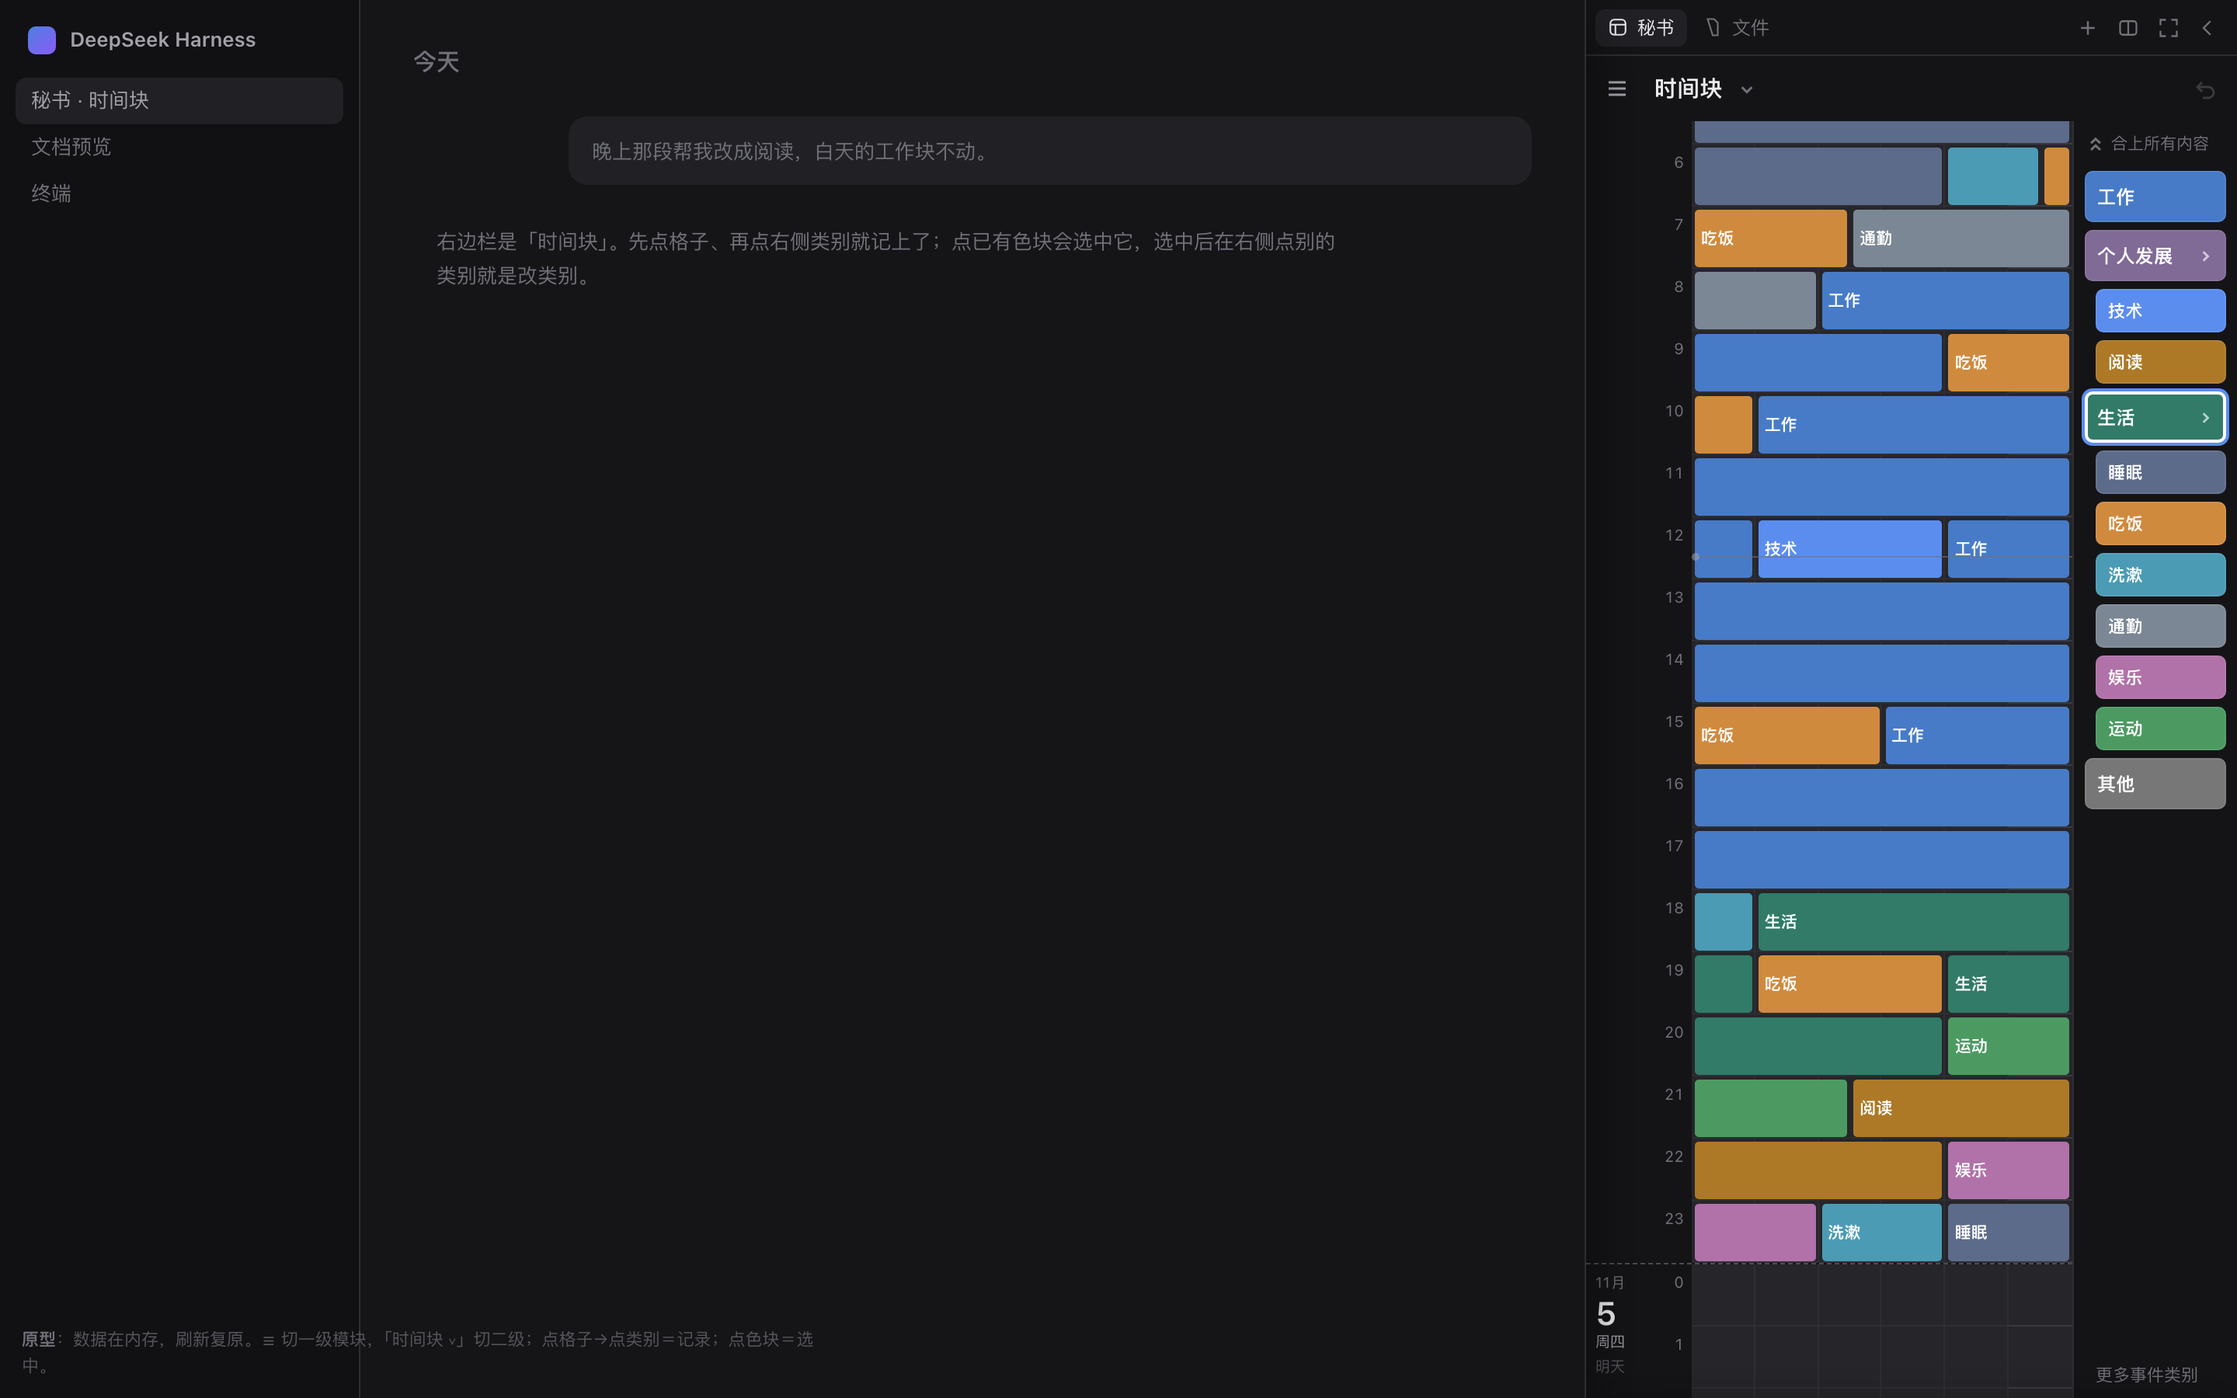
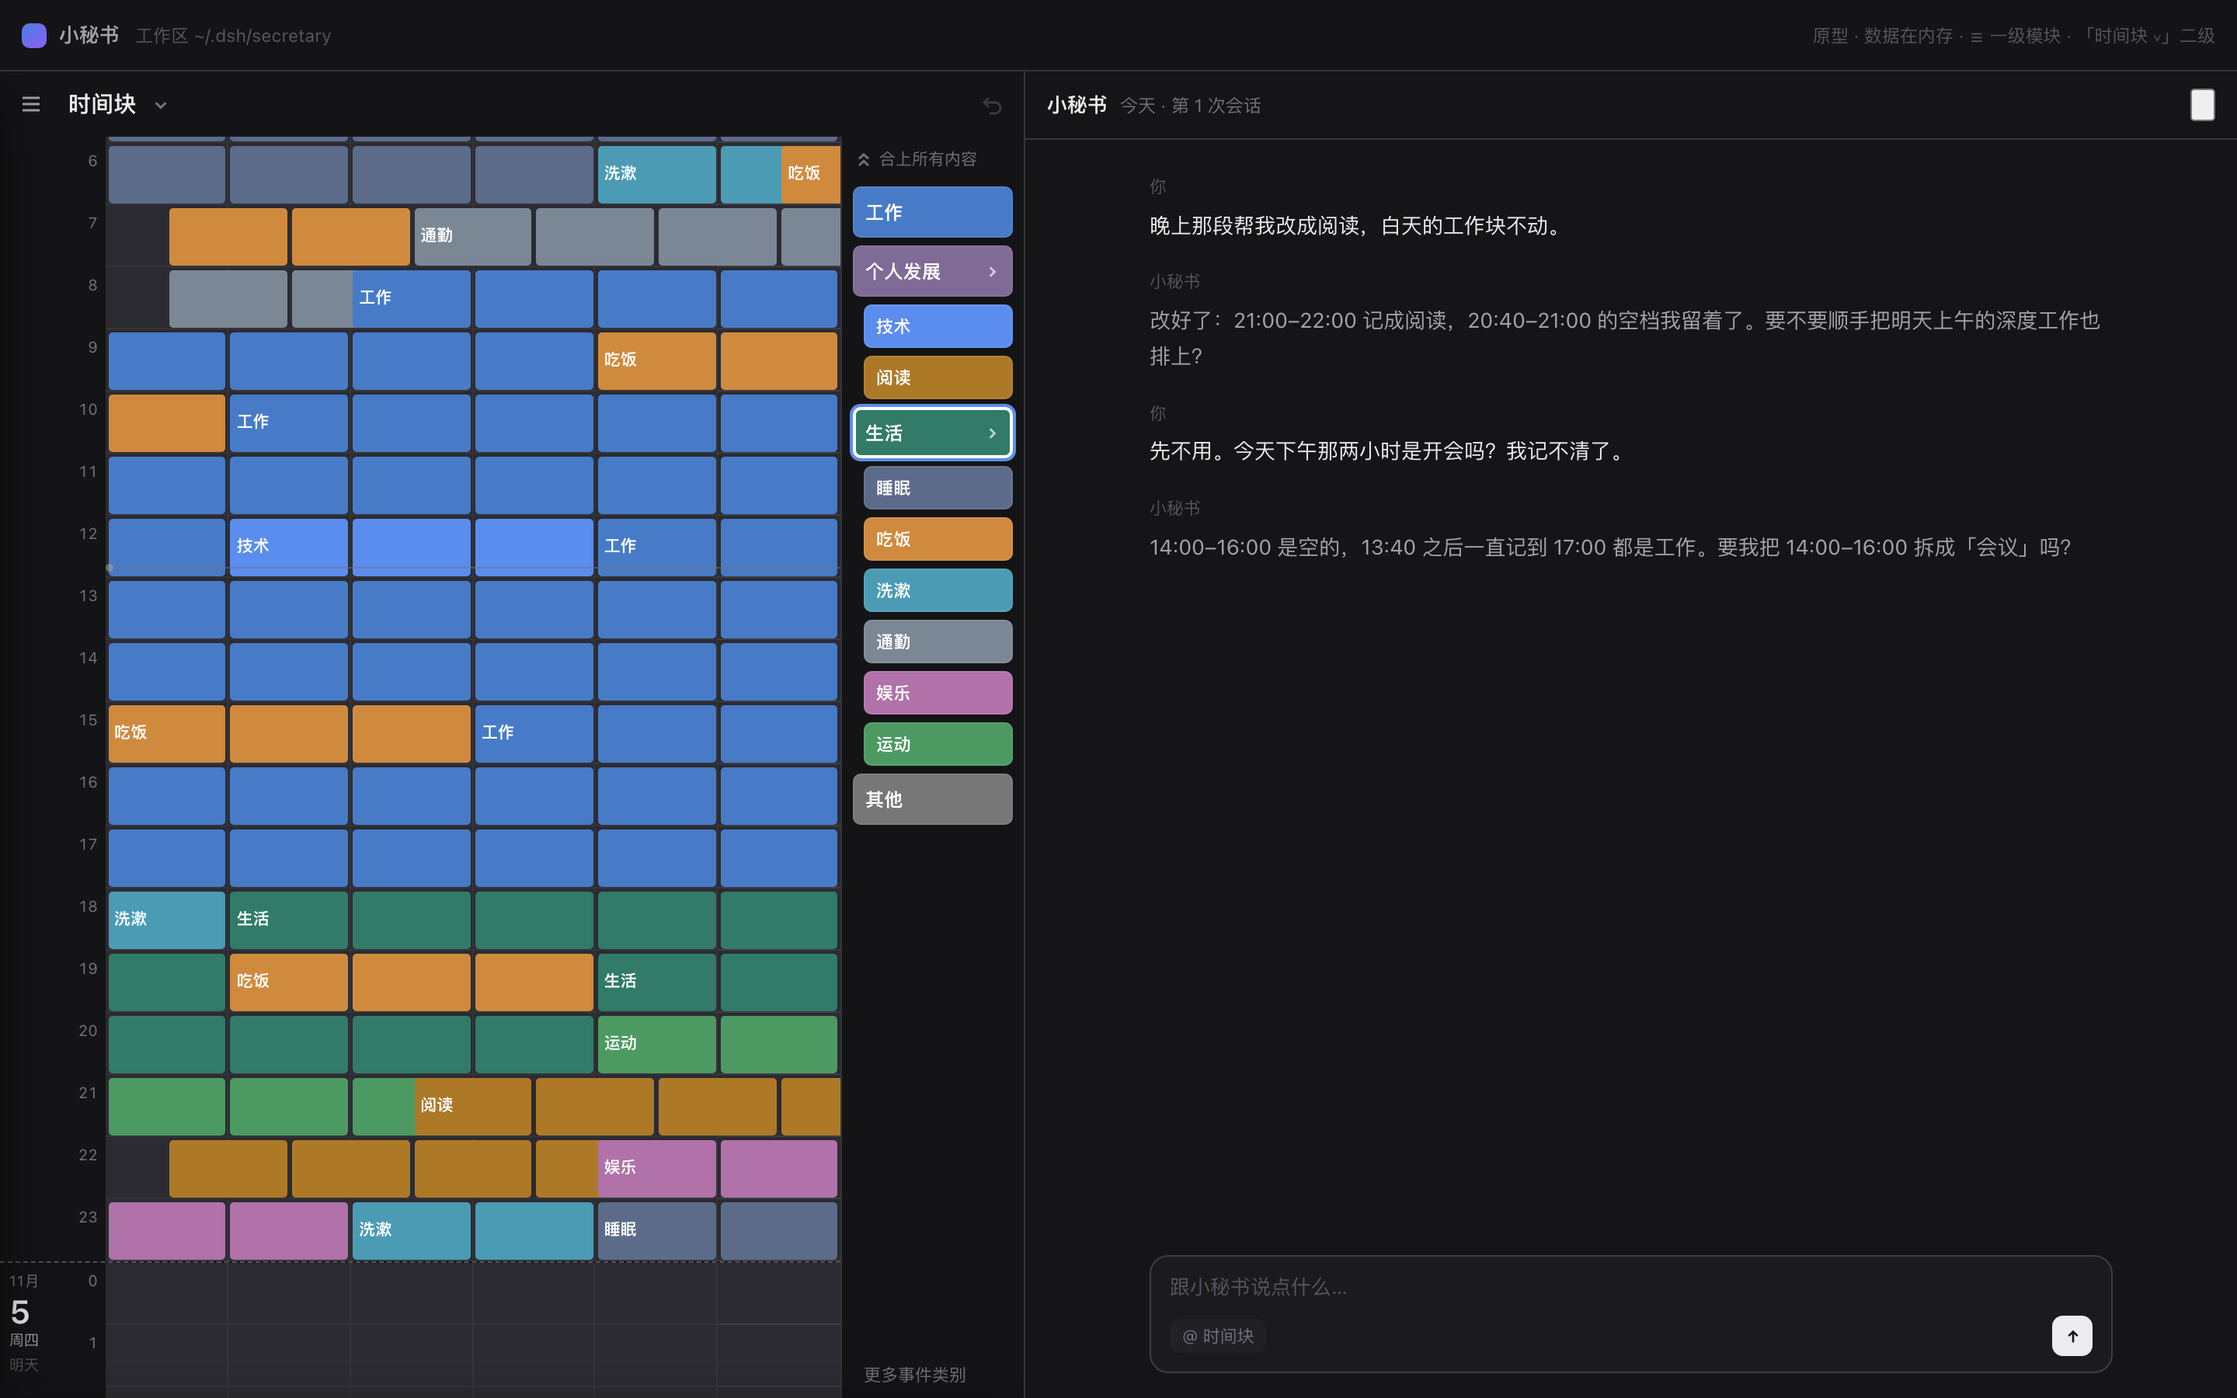
design: per-cell blocks, wider product pane, two-pane page (product left, chat right)

diff --git a/design/time-block-rail.html b/design/time-block-rail.html
@@ -24,10 +24,10 @@ body{font:14px/1.5 -apple-system,BlinkMacSystemFont,"SF Pro Text","PingFang SC",
 :root[data-theme="dark"]{
   --stage:#0a0a0b;--nav:#111113;--conv:#151517;
   --rail:#141416;--rail-2:#1b1b1e;--rail-3:#212125;
-  --cell:#26262a;--cell-2:#1e1e21;--line:#2e2e33;--line-2:#3a3a41;--dash:#4a4a52;
+  --cell:#2b2b31;--cell-2:#1f1f23;--line:#34343a;--line-2:#3d3d44;--dash:#4f4f57;
   --txt:#ececef;--txt-2:#a2a2aa;--txt-3:#71717a;--txt-4:#55555d;
   --accent:#5b8def;--accent-soft:#1d2b44;
-  --sel:rgba(255,255,255,.17);--sel-line:rgba(255,255,255,.6);
+  --sel:rgba(64,132,208,.92);--sel-line:rgba(255,255,255,.16);
   --danger:#e0554b;
   --shadow:0 14px 38px rgba(0,0,0,.6);--shadow-sm:0 6px 18px rgba(0,0,0,.45);
 }
@@ -43,7 +43,36 @@ body{font:14px/1.5 -apple-system,BlinkMacSystemFont,"SF Pro Text","PingFang SC",
 }
 
 /* ---------- fake DSH window (scenery only) ---------- */
-.stage{display:flex;height:100%}
+.stage{display:flex;height:100%;flex-direction:column;background:var(--rail)}
+.appbar{height:46px;flex:none;display:flex;align-items:center;gap:10px;padding:0 14px;border-bottom:1px solid var(--line);
+  background:var(--rail)}
+.appbar .brand{display:flex;align-items:center;gap:8px;font-size:13px;font-weight:600;color:var(--txt-2)}
+.appbar .brand i{width:16px;height:16px;border-radius:5px;background:linear-gradient(140deg,#4c7fe0,#8b5cf6)}
+.appbar .grow{flex:1}
+.appbar .whint{font-size:11.5px;color:var(--txt-4)}
+.body{flex:1;min-height:0;display:flex}
+.pane-product{width:var(--product-w,660px);flex:none;min-width:0;display:flex;flex-direction:column;
+  border-right:1px solid var(--line);position:relative;overflow:hidden}
+.pane-chat{flex:1;min-width:0;display:flex;flex-direction:column;background:var(--conv)}
+.chat-head{height:44px;flex:none;display:flex;align-items:center;gap:8px;padding:0 14px;border-bottom:1px solid var(--line)}
+.chat-head .t{font-size:13px;font-weight:600;color:var(--txt)}
+.chat-head .s{font-size:11.5px;color:var(--txt-3)}
+.chat-head .grow{flex:1}
+.chat-body{flex:1;min-height:0;overflow-y:auto;padding:22px 22px 8px}
+.msg{max-width:620px;margin:0 auto 16px}
+.msg .who{font-size:11px;color:var(--txt-4);margin-bottom:5px}
+.msg .bub{font-size:13.5px;line-height:1.75;color:var(--txt-2)}
+.msg.me .bub{color:var(--txt)}
+.chat-foot{flex:none;padding:10px 22px 16px}
+.composer{max-width:620px;margin:0 auto;border:1px solid var(--line-2);background:var(--rail-2);border-radius:12px;
+  padding:10px 12px;min-height:76px;display:flex;flex-direction:column;gap:8px}
+.composer .ph{font-size:13px;color:var(--txt-4)}
+.composer .row{display:flex;align-items:center;gap:6px;margin-top:auto}
+.composer .row .grow{flex:1}
+.composer .pill{height:22px;padding:0 8px;border-radius:6px;background:var(--rail-3);color:var(--txt-3);font-size:11px;
+  display:inline-flex;align-items:center;gap:4px}
+.composer .send{width:26px;height:26px;border-radius:7px;border:0;background:var(--txt);color:var(--rail);
+  display:grid;place-items:center;cursor:default}
 .sc-nav{width:232px;flex:none;background:var(--nav);border-right:1px solid var(--line);padding:16px 10px}
 .sc-brand{display:flex;align-items:center;gap:9px;padding:0 8px 14px;font-size:13px;font-weight:600;color:var(--txt-2)}
 .sc-brand i{width:18px;height:18px;border-radius:5px;background:linear-gradient(140deg,#4c7fe0,#8b5cf6)}
@@ -55,8 +84,7 @@ body{font:14px/1.5 -apple-system,BlinkMacSystemFont,"SF Pro Text","PingFang SC",
 .sc-msg.me{background:var(--rail-3);margin-left:auto}
 
 /* ---------- the rail (the product surface) ---------- */
-.rail{width:420px;flex:none;background:var(--rail);border-left:1px solid var(--line);
-  display:flex;flex-direction:column;position:relative;overflow:hidden}
+.rail{flex:1;min-width:0;background:var(--rail);display:flex;flex-direction:column;position:relative;overflow:hidden}
 .strip{height:36px;flex:none;display:flex;align-items:center;gap:2px;padding:0 6px;border-bottom:1px solid var(--line)}
 .strip .chip{height:24px;display:inline-flex;align-items:center;gap:6px;padding:0 8px;border-radius:6px;
   font-size:12px;color:var(--txt-3)}
@@ -122,9 +150,11 @@ body{font:14px/1.5 -apple-system,BlinkMacSystemFont,"SF Pro Text","PingFang SC",
 .blocks{position:absolute;inset:0;pointer-events:none;z-index:2}
 .blk{position:absolute;z-index:3;border-radius:2.5px;overflow:hidden;display:flex;align-items:center;
   padding:0 4px;font-size:10.5px;font-weight:600;letter-spacing:.1px;color:#fff;white-space:nowrap}
-.blk span{overflow:hidden;text-overflow:ellipsis}
-.selbox{position:absolute;z-index:4;background:var(--sel);box-shadow:inset 0 0 0 1.5px var(--sel-line);
-  border-radius:2.5px;pointer-events:none}
+.blk span{overflow:hidden;text-overflow:ellipsis;white-space:nowrap}
+.blk span.short{letter-spacing:-.2px}
+.selbox{position:absolute;z-index:4;background:var(--sel);box-shadow:inset 0 0 0 1px var(--sel-line);
+  border-radius:2.5px;pointer-events:none;display:grid;place-items:center;color:#fff;font-size:10px;font-weight:700}
+.selbox svg{width:11px;height:11px;opacity:.95}
 .nowline{position:absolute;left:0;right:0;height:1px;background:var(--txt-3);opacity:.55;z-index:5;pointer-events:none}
 .nowline::before{content:"";position:absolute;left:0;top:-2px;width:5px;height:5px;border-radius:50%;background:var(--txt-2)}
 
@@ -135,7 +165,7 @@ body{font:14px/1.5 -apple-system,BlinkMacSystemFont,"SF Pro Text","PingFang SC",
 .jump.on{opacity:1;pointer-events:auto}
 
 /* ---------- 类别列（标签架） ---------- */
-.shelf{width:106px;flex:none;border-left:1px solid var(--line);display:flex;flex-direction:column;min-height:0}
+.shelf{width:118px;flex:none;border-left:1px solid var(--line);display:flex;flex-direction:column;min-height:0}
 .shelf-head{height:30px;flex:none;display:flex;align-items:center;gap:4px;padding:0 8px;border:0;background:none;
   color:var(--txt-3);font:inherit;font-size:10.5px;cursor:pointer;text-align:left}
 .shelf-head:hover{color:var(--txt-2)}
@@ -253,36 +283,15 @@ body{font:14px/1.5 -apple-system,BlinkMacSystemFont,"SF Pro Text","PingFang SC",
 </head>
 <body>
 <div class="stage">
-  <aside class="sc-nav">
-    <div class="sc-brand"><i></i>DeepSeek Harness</div>
-    <div class="sc-row on">秘书 · 时间块</div>
-    <div class="sc-row">文档预览</div>
-    <div class="sc-row">终端</div>
-  </aside>
-  <main class="sc-conv">
-    <h1>今天</h1>
-    <div class="sc-msg me">晚上那段帮我改成阅读，白天的工作块不动。</div>
-    <div class="sc-msg">右边栏是「时间块」。先点格子、再点右侧类别就记上了；点已有色块会选中它，选中后在右侧点别的类别就是改类别。</div>
-  </main>
-
+  <div class="appbar">
+    <span class="brand"><i></i>小秘书</span>
+    <span class="whint">工作区 ~/.dsh/secretary</span>
+    <span class="grow"></span>
+    <span class="whint">原型 · 数据在内存 · ☰ 一级模块 · 「时间块 ⌄」二级</span>
+  </div>
+  <div class="body">
+  <section class="pane-product">
   <!-- ======================= 右边栏 ======================= -->
-  <section class="rail" id="rail">
-    <!-- 宿主 tab strip -->
-    <div class="strip">
-      <span class="chip on">
-        <svg viewBox="0 0 16 16" fill="none" stroke="currentColor" stroke-width="1.3"><rect x="2" y="2" width="12" height="12" rx="3"/><path d="M2 6h12M6 6v8"/></svg>
-        秘书
-      </span>
-      <span class="chip">
-        <svg viewBox="0 0 16 16" fill="none" stroke="currentColor" stroke-width="1.3"><path d="M4 1.5h5l3 3v10H8z"/></svg>
-        文件
-      </span>
-      <span class="grow"></span>
-      <button class="sbtn" title="新增页"><svg viewBox="0 0 16 16" fill="none" stroke="currentColor" stroke-width="1.4"><path d="M8 3v10M3 8h10"/></svg></button>
-      <button class="sbtn" title="分栏"><svg viewBox="0 0 16 16" fill="none" stroke="currentColor" stroke-width="1.3"><rect x="2" y="3" width="12" height="10" rx="2"/><path d="M8 3v10"/></svg></button>
-      <button class="sbtn" title="全屏"><svg viewBox="0 0 16 16" fill="none" stroke="currentColor" stroke-width="1.3"><path d="M6 2H2v4M10 14h4v-4M14 6V2h-4M2 10v4h4"/></svg></button>
-      <button class="sbtn" title="收起"><svg viewBox="0 0 16 16" fill="none" stroke="currentColor" stroke-width="1.4"><path d="M9 3l-5 5 5 5"/></svg></button>
-    </div>
 
     <!-- 一行头：☰ ｜ 二级标题 ｜ 动作 -->
     <header class="head">
@@ -398,8 +407,33 @@ body{font:14px/1.5 -apple-system,BlinkMacSystemFont,"SF Pro Text","PingFang SC",
 
     <div class="toast" id="toast"></div>
   </section>
+
+  <aside class="pane-chat">
+    <header class="chat-head">
+      <span class="t">小秘书</span>
+      <span class="s">今天 · 第 1 次会话</span>
+      <span class="grow"></span>
+      <button class="sbtn" title="新会话"><svg viewBox="0 0 16 16" fill="none" stroke="currentColor" stroke-width="1.4"><path d="M8 3v10M3 8h10"/></svg></button>
+    </header>
+    <div class="chat-body">
+      <div class="msg me"><div class="who">你</div><div class="bub">晚上那段帮我改成阅读，白天的工作块不动。</div></div>
+      <div class="msg"><div class="who">小秘书</div><div class="bub">改好了：21:00–22:00 记成阅读，20:40–21:00 的空档我留着了。要不要顺手把明天上午的深度工作也排上？</div></div>
+      <div class="msg me"><div class="who">你</div><div class="bub">先不用。今天下午那两小时是开会吗？我记不清了。</div></div>
+      <div class="msg"><div class="who">小秘书</div><div class="bub">14:00–16:00 是空的，13:40 之后一直记到 17:00 都是工作。要我把 14:00–16:00 拆成「会议」吗？</div></div>
+    </div>
+    <div class="chat-foot">
+      <div class="composer">
+        <div class="ph">跟小秘书说点什么…</div>
+        <div class="row">
+          <span class="pill">@ 时间块</span>
+          <span class="grow"></span>
+          <span class="send"><svg viewBox="0 0 16 16" fill="none" stroke="currentColor" stroke-width="1.6" style="width:13px;height:13px"><path d="M8 12.5V4M4.5 7.5L8 4l3.5 3.5"/></svg></span>
+        </div>
+      </div>
+    </div>
+  </aside>
+  </div>
 </div>
-<div class="foot"><b>原型</b>：数据在内存，刷新复原。☰ 切一级模块，「时间块 ⌄」切二级；点格子→点类别＝记录；点色块＝选中。</div>
 
 <script>
 /* ============================ 数据 ============================ */
@@ -537,19 +571,17 @@ function renderBlocks(layer) {
     if (!dayEl) return;
     const host = dayEl.querySelector('.blocks');
     let first = true;
-    for (let h = Math.floor(r.start / 60); h < Math.ceil(r.end / 60); h++) {
-      const hs = Math.max(r.start, h * 60), he = Math.min(r.end, (h + 1) * 60);
-      if (he <= hs) continue;
-      const from = (hs - h * 60) / RN, to = (he - h * 60) / RN;
-      const w = ((to - from) / PER_HOUR) * 100;
+    for (let m = r.start; m < r.end; m += RN) {
+      const h = Math.floor(m / 60), q = (m % 60) / RN;
       const el = document.createElement('div');
       el.className = 'blk';
       el.style.background = colorOf(r.tagId);
-      el.style.left = `calc(${(from / PER_HOUR) * 100}% + 2px)`;
-      el.style.width = `calc(${w}% - 4px)`;
-      el.style.top = `${h * ROW_H + 2}px`;
+      el.style.left = `calc(${(q / PER_HOUR) * 100}% + 1.5px)`;
+      el.style.width = `calc(${100 / PER_HOUR}% - 3px)`;
+      el.style.top = `${h * ROW_H + 1.5}px`;
       el.style.height = `${ROW_H - 3}px`;
-      if (first && w > 26) { el.innerHTML = `<span>${r.note || nameOf(r.tagId)}</span>`; first = false; }
+      if (r.note || first) el.innerHTML = `<span>${r.note || nameOf(r.tagId)}</span>`;
+      first = false;
       host.appendChild(el);
     }
   });
@@ -564,38 +596,19 @@ function renderBlocks(layer) {
 function renderSelection(layer) {
   const c = canvases[layer];
   c.days.querySelectorAll('.selbox').forEach(el => el.remove());
-  const byDay = {};
   state.selected.forEach(k => {
-    const [day, m] = k.split(':');
-    (byDay[day] = byDay[day] || []).push(Number(m));
-  });
-  Object.entries(byDay).forEach(([day, mins]) => {
+    const [day, m] = k.split(':'); const min = Number(m);
     const grid = c.days.querySelector(`.grid[data-day="${day}"]`);
     if (!grid) return;
-    mins.sort((a, b) => a - b);
-    const runs = [];
-    let a = mins[0], b = mins[0];
-    for (let i = 1; i < mins.length; i++) {
-      if (mins[i] === b + RN) { b = mins[i]; continue; }
-      runs.push([a, b]); a = mins[i]; b = mins[i];
-    }
-    runs.push([a, b]);
-    runs.forEach(([from, to]) => {
-      // 跨整点的选区按小时切开，保证每块都在自己的行里
-      for (let m = from; m <= to; m += RN) {
-        const h = Math.floor(m / 60);
-        const hourEnd = Math.min(to, (h + 1) * 60 - RN);
-        const q1 = (m % 60) / RN, q2 = (hourEnd % 60) / RN;
-        const box = document.createElement('div');
-        box.className = 'selbox';
-        box.style.left = `calc(${(q1 / PER_HOUR) * 100}% + 2px)`;
-        box.style.width = `calc(${((q2 - q1 + 1) / PER_HOUR) * 100}% - 4px)`;
-        box.style.top = `${h * ROW_H + 2}px`;
-        box.style.height = `${ROW_H - 3}px`;
-        grid.appendChild(box);
-        m = hourEnd;
-      }
-    });
+    const h = Math.floor(min / 60), q = (min % 60) / RN;
+    const box = document.createElement('div');
+    box.className = 'selbox';
+    box.style.left = `calc(${(q / PER_HOUR) * 100}% + 1.5px)`;
+    box.style.width = `calc(${100 / PER_HOUR}% - 3px)`;
+    box.style.top = `${h * ROW_H + 1.5}px`;
+    box.style.height = `${ROW_H - 3}px`;
+    box.innerHTML = '<svg viewBox="0 0 12 12" fill="none" stroke="currentColor" stroke-width="2"><path d="M2.5 6.4l2.3 2.3L9.5 3.7"/></svg>';
+    grid.appendChild(box);
   });
 }
 function renderStatus(layer) {
@@ -796,7 +809,7 @@ function buildSubMenu() {
 }
 function openSubMenu() {
   const t = $('#titleBtn').getBoundingClientRect();
-  const r = $('#rail').getBoundingClientRect();
+  const r = $('.pane-product').getBoundingClientRect();
   const el = $('#subMenu');
   el.style.left = `${t.left - r.left}px`;
   el.style.top = `${t.bottom - r.top + 4}px`;

diff --git a/design/time-block-rail-brief.md b/design/time-block-rail-brief.md
@@ -38,6 +38,13 @@
 
 深度时间、事项、标签、目标、统计都只有入口或占位；编辑浮层（起止 ±10 分钟、备注、改类别、删除）已接上，但没做「拖动块改时间」。
 
+## 第三轮修正（两屏页面）
+
+- **每格独立成块**：不再把连续格子合成一个大块。每个 10 分钟格都是一块独立的长方形，格间留 1.5px 缝，这就是「时间块」的颗粒感；文字只写在段首格或有备注的格上。
+- **默认宽**：产品栏 660px（原 420px），格阵 6 列 × 约 73px，格子呈横向长方形。
+- **选中态**：浅蓝底 + 白色 ✓，和 App 一致；选中时不再显示块上的文字。
+- **页面结构**：改成「左产品 / 右会话」两屏，DSH 左侧会话栏收起，顶部一条 app bar（品牌 + workspace 路径）。会话列在原型里是假的（真实实现要用宿主 `conversation.content` factory 嵌入）。
+
 ## 待你确认
 
 1. **日期位置**：你提到「日期是在右边」，但两张参考图里日期块都在左侧日期列。这一版按参考图放在左上、紧贴格阵。如果你说的是「放到右边」，我把它挪到格阵右侧。
